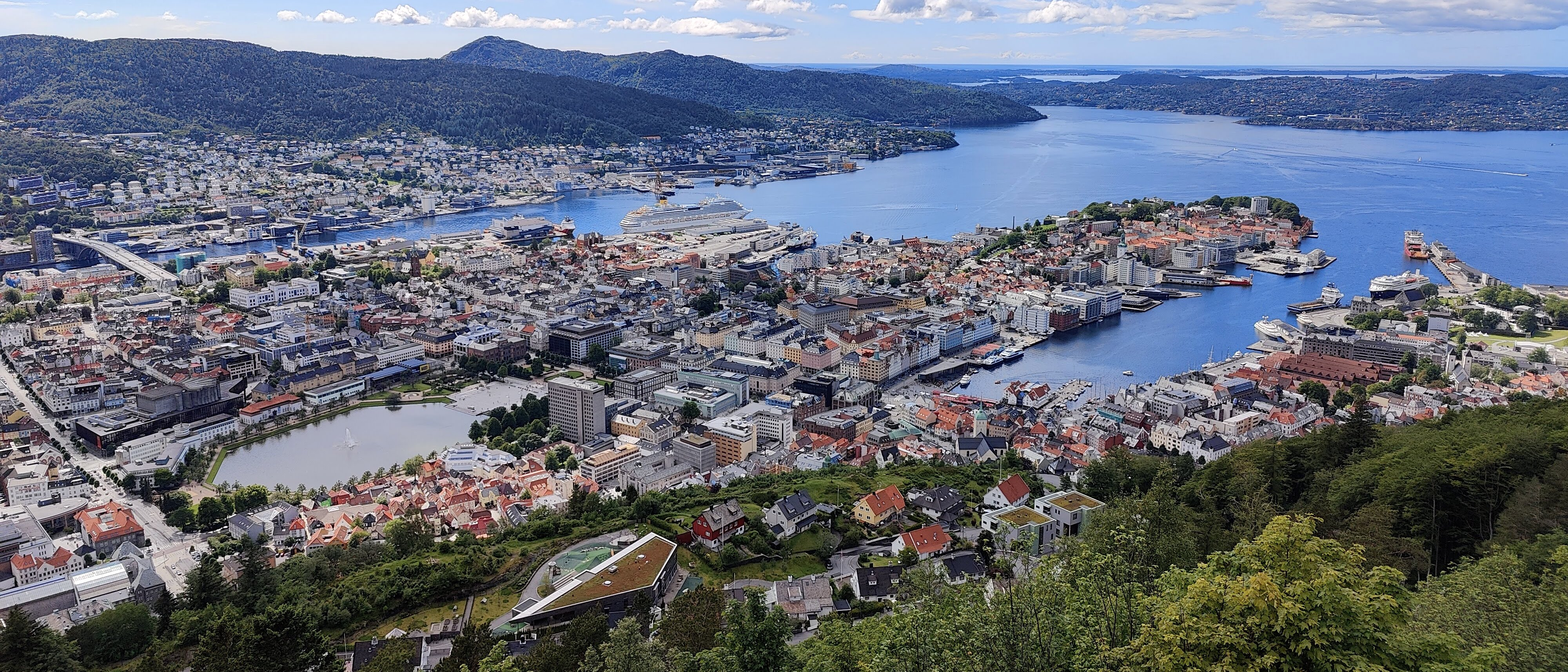
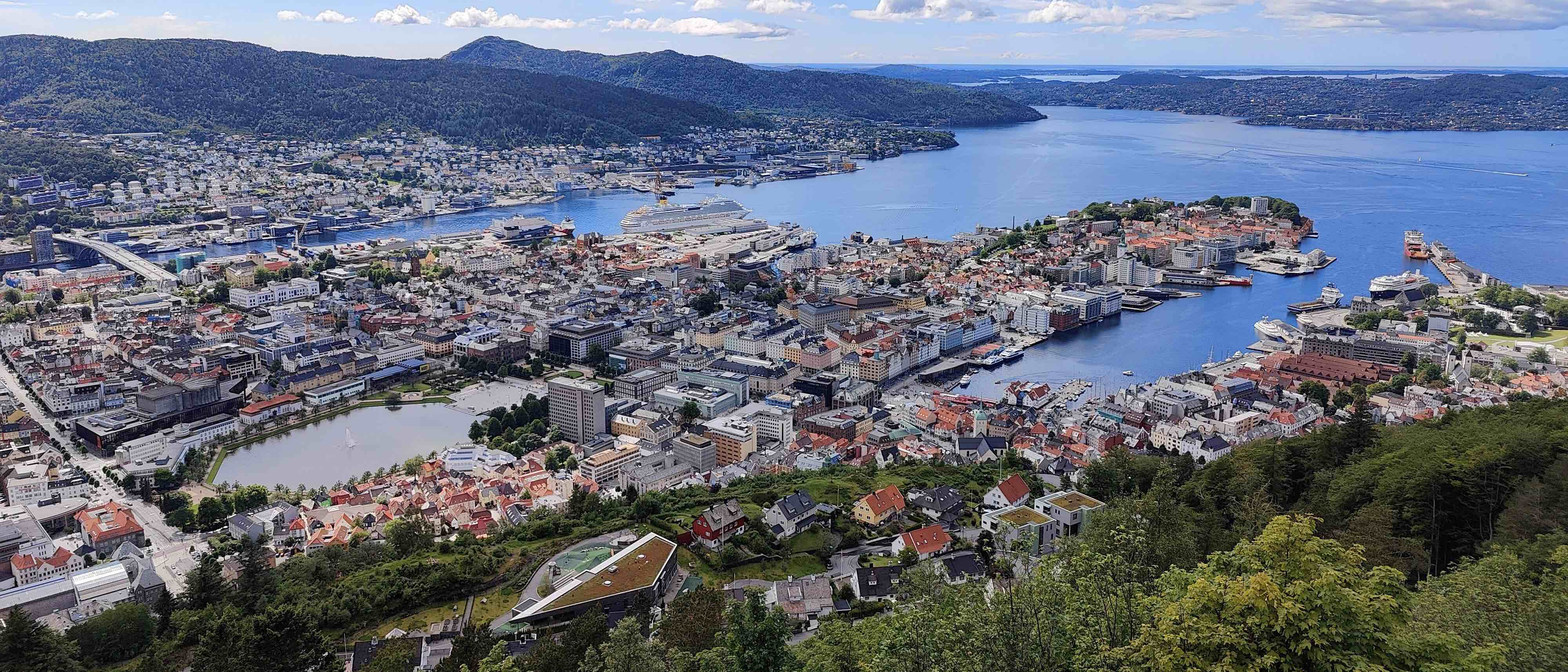
image cleanup

diff --git a/src/components/Sections.js b/src/components/Sections.js
@@ -1,6 +1,6 @@
 import React, { useState } from "react";
 import MainBanner from '../assets/hero/main.jpg';
-import BergenMap from '../assets/bergen-map.png';
+import BergenMap from '../assets/bergen-map.jpg';
 import BergenPhoto from '../assets/bergen-photo.jpg';
 import OvreEidePhoto from '../assets/øvre-eide-farm.jpg';
 import Map from "./Map";
